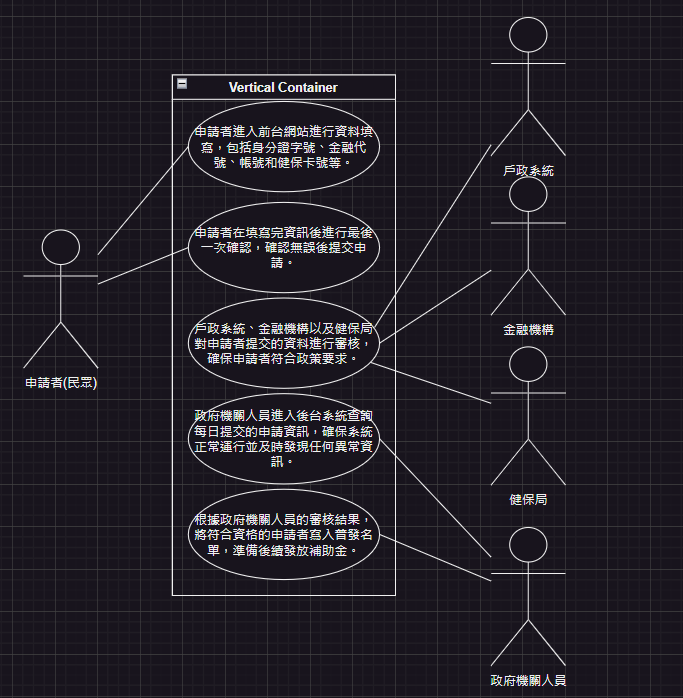
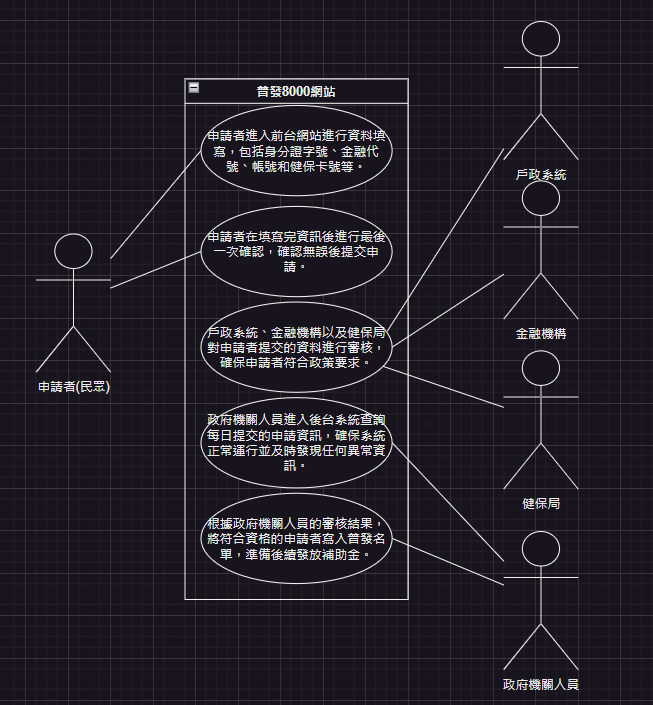
完成:第一大題:a、b、c、d 第二大題:a、b、c

diff --git a/answer.md b/answer.md
@@ -107,7 +107,7 @@
 | 利害人     | 目標                                                         |
 |------------|--------------------------------------------------------------|
 |   申請者(民眾)  |1. 提交正確的個人資料，以符合政策要求。<br>2. 通過審核，取得補助金。<br>3.確保個人資訊安全。 |
-| 政府機關人員 |1. 確保申請者提交的資料符合政策要求。<br>2. 審核資料。<br>3. 正確生成普發名單，以便後續發放補助金。<br>4. 確保系統運行正常，及時發現並處理任何異常情況。 |
+| 政府機關人員 |1. 確保申請者提交的資料符合政策要求。<br>2.查詢每日提交的申請資訊。<br>3. 正確生成普發名單，以便後續發放補助金。<br>4. 確保系統運行正常，及時發現並處理任何異常情況。 |
 | 戶政系統|1. 確保申請者提供的身分證字號或居留證號與個人資料一致。 | 
 |   金融機構  | 1. 確保申請者提供的金融帳戶與個人資料一致。<br>2 遵守相關法規，保護客戶隱私。<br>3. 確保金融資訊安全，防止詐騙行為。|
 |  健保局  | 1. 確保申請者提供的健保卡資訊與個人資料一致。<br>2. 配合政府政策。|
@@ -125,6 +125,55 @@
 ![alt text](image-2.png)<br>
 (c)
 ### 使用案例
+|使用案例名稱 |申請資訊填寫 |
+|------------------|------------------|
+|使用案例描述|申請者進入前台網站進行資料填寫，包括身分證字號、金融代號、帳號和健保卡號等。 |
+|主要參與者|申請者 |
+|利害關係人與目標|申請者:提交正確的個人資料，以符合政策要求。 |
+|前置條件|申請者已進入前台網站並選擇申請資訊填寫。 |
+|後置條件|申請者成功填寫並提交資訊。 |
+|主要成功情節|申請者成功填寫並提交資訊。 |
+|例外情節與其他需求|若申請者填寫資訊不完整或有錯誤，則無法成功提交申請。 |
+
+|使用案例名稱|申請資訊確認 |
+|------------------|------------------|
+|使用案例描述|申請者在填寫完資訊後進行最後一次確認，確認無誤後提交申請。 |
+|主要參與者|申請者 |
+|利害關係人與目標|申請者:提交正確的個人資料，以符合政策要求。 |
+|前置條件|申請者已完成填寫資訊。 |
+|後置條件|申請者成功提交申請。 |
+|主要成功情節|申請者成功確認填寫的資訊無誤並提交申請。 |
+|例外情節與其他需求|若申請者在確認頁面修改資訊，則返回填入資訊頁面進行修改。 |
+
+| 使用案例名稱|申請資格審核  |
+|------------------|------------------|
+|使用案例描述 |戶政系統、金融機構以及健保局對申請者提交的資料進行審核，確保申請者符合政策要求。|
+|主要參與者 |戶政系統、金融機構、健保局、申請者 |
+|利害關係人與目標| 戶政系統:確保申請者提供的身分證字號或居留證號與個人資料一致。<br>金融機構:確保申請者提供的金融帳戶與個人資料一致。<br>健保局:確保申請者提供的健保卡資訊與個人資料一致。<br>申請者:通過審核，取得補助金|
+|前置條件 |申請者已填寫完資訊並提交申請。 |
+|後置條件 |審核結果為通過或不通過。|
+|主要成功情節 |政府機關人員成功審核申請者提交的資料。|
+|例外情節與其他需求 |若申請者提供的資料不完整或不符合政策要求，則審核結果為不通過。|
+
+|使用案例名稱|申請資訊查詢 |
+|------------------|------------------|
+|使用案例描述|政府機關人員進入後台系統查詢每日提交的申請資訊，確保系統正常運行並及時發現任何異常資訊。 |
+|主要參與者|政府機關人員 |
+|利害關係人與目標|政府機關人員:1.確保系統運行正常，及時發現並處理任何異常情況。2.查詢每日提交的申請資訊|
+|前置條件|政府機關人員已登入後台系統。 |
+|後置條件|政府機關人員成功查詢申請資訊。 |
+|主要成功情節|政府機關人員成功查詢每日提交的申請資訊。 |
+|例外情節與其他需求|若系統異常或無法正常查詢資訊，則無法成功查詢申請資訊。 |
+
+|使用案例名稱|普發名單生成 |
+|------------------|------------------|
+|使用案例描述|根據政府機關人員的審核結果，將符合資格的申請者寫入普發名單，準備後續發放補助金。 |
+|主要參與者|政府機關人員 |
+|利害關係人與目標|政府機關人員:正確生成普發名單，以便後續發放補助金|
+|前置條件|政府機關人員已完成申請者的審核。 |
+|後置條件|普發名單已生成。 |
+|主要成功情節|政府機關人員成功根據審核結果生成普發名單。 |
+|例外情節與其他需求|若審核結果有誤，則無法正確生成普發名單。 |
 
 (d)
 
